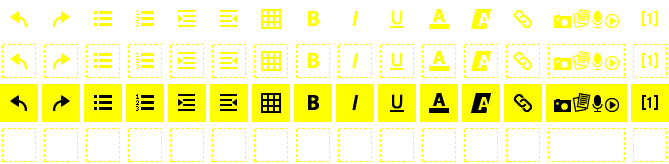
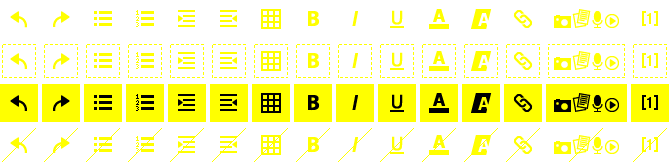
FLOE-1: Tweaks to high-contrast images in authoring interface; fix text size in UIO panel.

diff --git a/project/media/javascripts/infusion/framework/fss/css/fss-base-global.css b/project/media/javascripts/infusion/framework/fss/css/fss-base-global.css
@@ -1,0 +1,119 @@
+/*
+Based on YUI fonts and base
+
+Copyright (c) 2008, Yahoo! Inc. All rights reserved.
+Code licensed under the BSD License:
+http://developer.yahoo.net/yui/license.txt
+version: 2.5.2
+*/
+
+/* from fonts.css, part of YUI's CSS Foundation */
+
+/**
+ * Percents could work for IE, but for backCompat purposes, we are using keywords.
+ * x-small is for IE6/7 quirks mode.
+ */
+body {}
+table {font-size:inherit;font:100%;}
+/**
+ * Bump up IE to get to 13px equivalent
+ */
+pre,code,kbd,samp,tt {font-family:monospace;*font-size:108%;line-height:100%;}
+
+/* from base.css, part of YUI's CSS Foundation */
+h1 {
+	/*18px via YUI Fonts CSS foundation*/
+	font-size:138.5%;  
+}
+h2 {
+	/*16px via YUI Fonts CSS foundation*/
+	font-size:123.1%; 
+}
+h3 {
+	/*14px via YUI Fonts CSS foundation*/
+	font-size:108%;  
+}
+h1,h2,h3 {
+	/* top & bottom margin based on font size */
+	margin:1em 0;
+}
+h1,h2,h3,h4,h5,h6,strong {
+	/*bringing boldness back to headers and the strong element*/
+	font-weight:bold; 
+}
+abbr,acronym {
+	/*indicating to users that more info is available */
+	border-bottom:1px dotted #000;
+	cursor:help;
+} 
+em {
+	/*bringing italics back to the em element*/
+	font-style:italic;
+}
+blockquote,ul,ol,dl {
+	/*giving blockquotes and lists room to breath*/
+	margin:1em;
+}
+ol,ul,dl {
+	/*bringing lists on to the page with breathing room */
+	margin-left:2em;
+}
+ol li {
+	/*giving OL's LIs generated numbers*/
+	list-style: decimal outside;	
+}
+ul li {
+	/*giving UL's LIs generated disc markers*/
+	list-style: disc outside;
+}
+dl dd {
+	/*giving UL's LIs generated numbers*/
+	margin-left:1em;
+}
+th,td {
+	/*borders and padding to make the table readable*/
+	border:1px solid #000;
+	padding:.5em;
+}
+th {
+	/*distinguishing table headers from data cells*/
+	font-weight:bold;
+	text-align:center;
+}
+caption {
+	/*coordinated margin to match cell's padding*/
+	margin-bottom:.5em;
+	/*centered so it doesn't blend in to other content*/
+	text-align:center;
+}
+p,fieldset,table,pre {
+	/*so things don't run into each other*/
+	margin-bottom:1em;
+}
+/* setting a consistent width, 160px; 
+   control of type=file still not possible */
+input[type=text],input[type=password],textarea{width:12.25em;*width:11.9em;}
+input,textarea,select{font-family:inherit;font-size:inherit;font-weight:inherit;}
+
+/*************************************************************************************/
+/* Prevent unecessary scrollbars in IE */
+/* Put font data on the HTML element to allow overrides on the body */
+/* IE6 cant zoom text properly, so text size reset is a rough approximation */
+html {overflow:auto; font:13px/1.231 arial,helvetica,clean,sans-serif; *font-size:small;}
+
+/*to enable resizing for IE*/
+input,textarea,select{
+    *font-size:100%;
+    *font-family:sans-serif;
+}
+
+/* IE rendering fix for extra padding on buttons. Padding can now be set safely */
+input {
+    *overflow:visible; *padding:0 1em;
+}
+
+/* custom default focus indicator - theme overwrites this */
+.fl-focus:focus,
+.fl-focus :focus{    
+   outline: 2px solid black;
+}

diff --git a/project/media/styles/authoring/edit.css b/project/media/styles/authoring/edit.css
@@ -1250,3 +1250,27 @@
 .fl-theme-uio-wb #write-toolbar .color-selector.active .text-color,
 .fl-theme-uio-wb #write-toolbar .color-selector.active .bg-color {
   background-image: url(../../images/authoring/toolbar-whiteonblack.png) !important; }
+
+.fl-theme-uio-wb .authoring-head .logo {
+  background-image: url(../../images/authoring/logo-whiteonblack.png); }
+
+.fl-theme-uio-bw .authoring-head .logo {
+  background-image: url(../../images/authoring/logo-blackonwhite.png); }
+
+.fl-theme-uio-yb .authoring-head .logo {
+  background-image: url(../../images/authoring/logo-yellowonblack.png); }
+
+.fl-theme-uio-by .authoring-head .logo {
+  background-image: url(../../images/authoring/logo-blackonyellow.png); }
+
+.fl-theme-uio-wb .step-icons a {
+  background-image: url("../../images/authoring/steps-whiteonblack.png"); }
+
+.fl-theme-uio-bw .step-icons a {
+  background-image: url("../../images/authoring/steps-blackonwhite.png"); }
+
+.fl-theme-uio-yb .step-icons a {
+  background-image: url("../../images/authoring/steps-yellowonblack.png"); }
+
+.fl-theme-uio-by .step-icons a {
+  background-image: url("../../images/authoring/steps-blackonyellow.png"); }

diff --git a/project/media/styles/authoring/edit.scss b/project/media/styles/authoring/edit.scss
@@ -1450,3 +1450,29 @@
 .fl-theme-uio-wb #write-toolbar .color-selector.active .bg-color {
     background-image: url(../../images/authoring/toolbar-whiteonblack.png) !important;
 }
+
+.fl-theme-uio-wb .authoring-head .logo {
+  background-image: url(../../images/authoring/logo-whiteonblack.png)
+}
+.fl-theme-uio-bw .authoring-head .logo {
+  background-image: url(../../images/authoring/logo-blackonwhite.png)
+}
+.fl-theme-uio-yb .authoring-head .logo {
+  background-image: url(../../images/authoring/logo-yellowonblack.png)
+}
+.fl-theme-uio-by .authoring-head .logo {
+  background-image: url(../../images/authoring/logo-blackonyellow.png)
+}
+
+.fl-theme-uio-wb .step-icons a {
+  background-image: url("../../images/authoring/steps-whiteonblack.png");
+}
+.fl-theme-uio-bw .step-icons a {
+  background-image: url("../../images/authoring/steps-blackonwhite.png");
+}
+.fl-theme-uio-yb .step-icons a {
+  background-image: url("../../images/authoring/steps-yellowonblack.png");
+}
+.fl-theme-uio-by .step-icons a {
+  background-image: url("../../images/authoring/steps-blackonyellow.png");
+}

diff --git a/project/media/javascripts/infusion/components/uiOptions/html/FatPanelUIOptionsFrame.html b/project/media/javascripts/infusion/components/uiOptions/html/FatPanelUIOptionsFrame.html
@@ -4,6 +4,7 @@
     <head>
         <meta http-equiv="Content-Type" content="text/html; charset=utf-8" />
 
+        <link rel="stylesheet" type="text/css" href="../../../framework/fss/css/fss-base-global.css" />
         <link rel="stylesheet" type="text/css" href="../../../framework/fss/css/fss-layout.css" />
         <link rel="stylesheet" type="text/css" href="../../../components/uiOptions/css/fss/fss-theme-bw-uio.css" />
         <link rel="stylesheet" type="text/css" href="../../../components/uiOptions/css/fss/fss-theme-wb-uio.css" />
